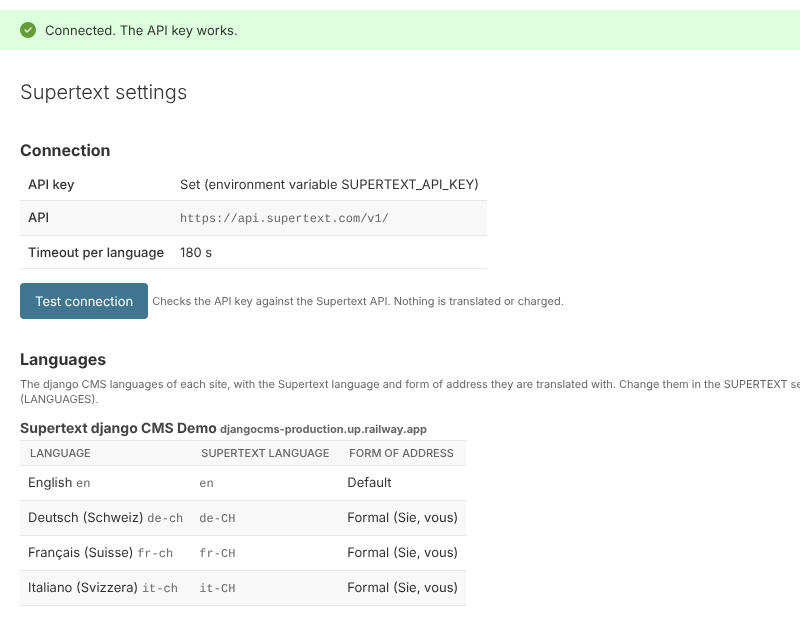
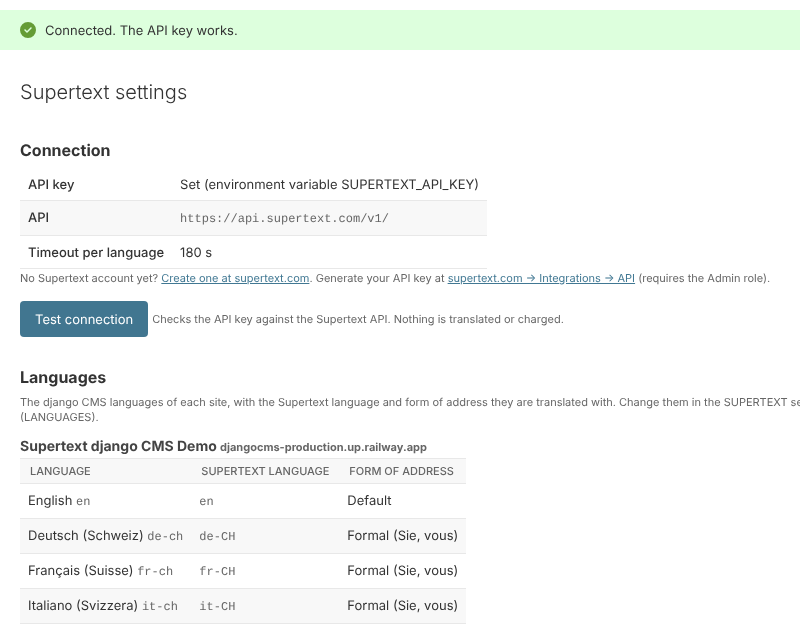
Add Supertext signup and API key links to API key settings and docs
The settings page, the "not set up yet" notice in the translate dialog and
supertext_check now link to the Supertext account signup and to
supertext.com → Integrations → API (Admin role required). German
translation, installation guide, README, user guide, changelog, demo
.env.example and the settings screenshot updated.

Claude-Session: https://claude.ai/code/session_01EnSTWcWHurd9UcMU2SVApV

diff --git a/djangocms_supertext/templates/djangocms_supertext/settings.html b/djangocms_supertext/templates/djangocms_supertext/settings.html
@@ -19,6 +19,7 @@
     <tr><th>{% translate "API" %}</th><td><code data-supertext-endpoint>{{ options.base_url }}</code></td></tr>
     <tr><th>{% translate "Timeout per language" %}</th><td>{{ options.timeout|floatformat:0 }} s</td></tr>
   </table>
+  <p class="help" data-supertext-key-help>{% blocktranslate trimmed %}No Supertext account yet? <a href="{{ signup_url }}" target="_blank" rel="noopener">Create one at supertext.com</a>. Generate your API key at <a href="{{ api_key_url }}" target="_blank" rel="noopener">supertext.com → Integrations → API</a> (requires the Admin role).{% endblocktranslate %}</p>
   <form method="post" style="margin: 12px 0 28px">
     {% csrf_token %}
     <input type="submit" value="{% translate 'Test connection' %}">

diff --git a/djangocms_supertext/templates/djangocms_supertext/translate.html b/djangocms_supertext/templates/djangocms_supertext/translate.html
@@ -31,7 +31,7 @@
   <p class="st-page">{% translate "Page" %}: <strong>{{ page }}</strong></p>
 
   {% if not configured %}
-    <p class="errornote">{% translate "Supertext is not set up yet: an administrator needs to set SUPERTEXT_API_KEY." %}</p>
+    <p class="errornote">{% translate "Supertext is not set up yet: an administrator needs to set SUPERTEXT_API_KEY." %}<br>{% blocktranslate trimmed %}No Supertext account yet? <a href="{{ signup_url }}" target="_blank" rel="noopener">Create one at supertext.com</a>. Generate your API key at <a href="{{ api_key_url }}" target="_blank" rel="noopener">supertext.com → Integrations → API</a> (requires the Admin role).{% endblocktranslate %}</p>
   {% endif %}
 
   {% if results %}

diff --git a/djangocms_supertext/admin.py b/djangocms_supertext/admin.py
@@ -113,6 +113,8 @@ class TranslationAdmin(admin.ModelAdmin):
             "languages": languages,
             "source": source,
             "configured": bool(options.api_key),
+            "signup_url": conf.SIGNUP_URL,
+            "api_key_url": conf.API_KEY_URL,
             "results": [
                 {"result": r, "name": names.get(r.language, r.language), "url": _edit_url(page, r.language)}
                 for r in results or []
@@ -154,6 +156,8 @@ class TranslationAdmin(admin.ModelAdmin):
             "title": _("Supertext settings"),
             "options": options,
             "sites": sites,
+            "signup_url": conf.SIGNUP_URL,
+            "api_key_url": conf.API_KEY_URL,
             "opts": self.model._meta,
         }
         return TemplateResponse(request, "djangocms_supertext/settings.html", context)

diff --git a/djangocms_supertext/management/commands/supertext_check.py b/djangocms_supertext/management/commands/supertext_check.py
@@ -10,7 +10,11 @@ class Command(BaseCommand):
     def handle(self, *args, **options):
         settings = conf.load()
         if not settings.api_key:
-            raise CommandError("No Supertext API key is configured. Set SUPERTEXT_API_KEY.")
+            raise CommandError(
+                "No Supertext API key is configured. Set SUPERTEXT_API_KEY.\n"
+                f"No Supertext account yet? Create one at {conf.SIGNUP_URL}\n"
+                f"Generate your API key at {conf.API_KEY_URL} (supertext.com → Integrations → API; requires the Admin role)."
+            )
         try:
             settings.client().validate_api_key()
         except SupertextError as error:

diff --git a/djangocms_supertext/conf.py b/djangocms_supertext/conf.py
@@ -18,6 +18,10 @@ from dataclasses import dataclass, field
 
 from .client import SupertextClient, base_url_for, normalize_key
 
+#: Where administrators create a Supertext account (or log in) and generate the API key.
+SIGNUP_URL = "https://www.supertext.com/person/en/account/signin"
+API_KEY_URL = "https://www.supertext.com/en/integrations/api"
+
 #: Plugin fields translated out of the box: plugin type -> {model field: "text" | "html"}.
 DEFAULT_PLUGIN_FIELDS: dict[str, dict[str, str]] = {
     "TextPlugin": {"body": "html"},  # djangocms-text (and djangocms-text-ckeditor)

diff --git a/docs/INSTALLATION.md b/docs/INSTALLATION.md
@@ -7,7 +7,7 @@ For administrators and developers who install and set up the package. Editors fi
 - django CMS 4.1 or later (tested with 5.1), Django 4.2 or later, Python 3.10 or later
 - More than one language in `LANGUAGES` / `CMS_LANGUAGES`
 - [djangocms-text](https://github.com/django-cms/djangocms-text) (or another text plugin with a `body` field) for rich text
-- A Supertext account with an API key (Supertext → Account → API)
+- A Supertext account ([log in or create one](https://www.supertext.com/person/en/account/signin)) and an API key from [supertext.com → Integrations → API](https://www.supertext.com/en/integrations/api) (see [API key](#api-key))
 - The server must reach `https://api.supertext.com` over HTTPS
 
 ## Install
@@ -55,6 +55,9 @@ Remove `"djangocms_supertext"` from `INSTALLED_APPS` after running `python manag
 
 ## API key
 
+1. **No Supertext account yet?** [Create one at supertext.com](https://www.supertext.com/person/en/account/signin) (the same page logs you in if you already have one; you sign in with your email address).
+2. **Generate the API key** at [supertext.com → Integrations → API](https://www.supertext.com/en/integrations/api). Only users with the **Admin** role in the Supertext account can do this; otherwise ask your account's admin.
+
 Set the key as an environment variable of the server:
 
 ```bash
@@ -63,9 +66,9 @@ SUPERTEXT_API_KEY="your-key"
 
 You can paste it with or without the `Supertext-Auth-Key ` prefix that Supertext shows; the package sends it as `Authorization: Supertext-Auth-Key <key>`. Alternatively set `"API_KEY"` in the `SUPERTEXT` setting (below); the environment variable wins. Keep the key out of your repository.
 
-Check it in the admin under *Supertext → Supertext translations → Settings and connection → Test connection* (superusers), or with `python manage.py supertext_check`. Both call a cost-free endpoint of the Supertext API.
+Check it in the admin under *Supertext → Supertext translations → Settings and connection → Test connection* (superusers), or with `python manage.py supertext_check`. Both call a cost-free endpoint of the Supertext API. While no key is set, the settings page, the translate dialog and `supertext_check` link to the account signup and the API key page.
 
-![The Supertext settings page: "Connected. The API key works.", the API key's source, the live API address, the timeout, and the languages of the site with their Supertext code and form of address](images/06-settings.png)
+![The Supertext settings page: "Connected. The API key works.", the API key's source, the live API address, the timeout, links to create a Supertext account and to generate the API key, and the languages of the site with their Supertext code and form of address](images/06-settings.png)
 
 ## Languages
 
@@ -135,8 +138,8 @@ Translating runs in the editor's request: a few seconds per language, up to `TIM
 | Symptom | Cause and fix |
 | --- | --- |
 | No *Translate with Supertext…* in the Language menu | The toolbar isn't in edit mode, the app isn't in `INSTALLED_APPS`, or the user lacks `djangocms_supertext.translate` or permission to change the page. |
-| *Supertext is not set up yet* in the dialog | `SUPERTEXT_API_KEY` is not set on the server. |
-| *Authentication failed. Please check the Supertext API key.* | Wrong or revoked key, or a key for another environment. Use *Test connection*. |
+| *Supertext is not set up yet* in the dialog | `SUPERTEXT_API_KEY` is not set on the server. Generate a key at [supertext.com → Integrations → API](https://www.supertext.com/en/integrations/api) (Admin role) and set it. |
+| *Authentication failed. Please check the Supertext API key.* | Wrong or revoked key, or a key for another environment. Generate a new one at [supertext.com → Integrations → API](https://www.supertext.com/en/integrations/api) (Admin role) and use *Test connection*. |
 | *This language is published. Create a draft of it, then translate again.* | With djangocms-versioning, only drafts can be changed. Create a draft of that language (or delete the language) and translate again. |
 | *Too many requests to Supertext* | The API's per-second limit was hit repeatedly although the package retries. Try again shortly. |
 | *Timed out waiting for the Supertext translation* or a 502/504 from the proxy | Very long page: raise `TIMEOUT` and the web server's request timeout. |

diff --git a/CHANGELOG.md b/CHANGELOG.md
@@ -12,6 +12,7 @@ All notable changes to this project are documented here. The format follows [Kee
 - New languages get a slug from the translated title; with djangocms-versioning they are created as drafts, and published languages are not overwritten.
 - Permission *Can translate pages with Supertext*; page change permissions apply.
 - Admin: a log of all Supertext translations and a settings page with *Test connection* (superusers).
+- The settings page, the "not set up yet" notice in the translate dialog and `supertext_check` link to the Supertext account signup and to supertext.com → Integrations → API, where users with the Admin role generate the API key. Installation guide and README explain the same.
 - Settings: `SUPERTEXT_API_KEY` (with or without the `Supertext-Auth-Key` prefix), `SUPERTEXT_API_URL`, and the `SUPERTEXT` setting (environment, languages and tone, timeout, plugin fields).
 - Management commands `supertext_translate` and `supertext_check`.
 - Retries when the Supertext API answers HTTP 429 (rate limit).

diff --git a/docs/USER_GUIDE.md b/docs/USER_GUIDE.md
@@ -63,7 +63,7 @@ Empty fields are skipped.
 
 | Message | Meaning |
 | --- | --- |
-| *Supertext is not set up yet: …* | No API key on the server. Ask your administrator. |
+| *Supertext is not set up yet: …* | No API key on the server. Ask your administrator; the message links to where they create a Supertext account and the API key. |
 | *already translated, skipped* | The language exists and *Overwrite existing translations* was off. |
 | *The page has no … version to translate from.* | Choose another *From* language. |
 | *This language is published. Create a draft of it, then translate again.* | With versioning, overwrite a draft, not the published version. |

diff --git a/README.md b/README.md
@@ -22,6 +22,8 @@ In edit mode, choose **Language → Translate with Supertext…**, tick the lang
 | [User guide](docs/USER_GUIDE.md) | Editors: translating, reviewing, overwriting, what gets translated |
 | [Developer guide](docs/DEVELOPER.md) | Architecture, API protocol, local development, tests, demo deployment, releases |
 
+Requires a Supertext account ([create one or log in](https://www.supertext.com/person/en/account/signin)) and an API key from [supertext.com → Integrations → API](https://www.supertext.com/en/integrations/api) (Admin role in the Supertext account).
+
 Quick start:
 
 ```bash
